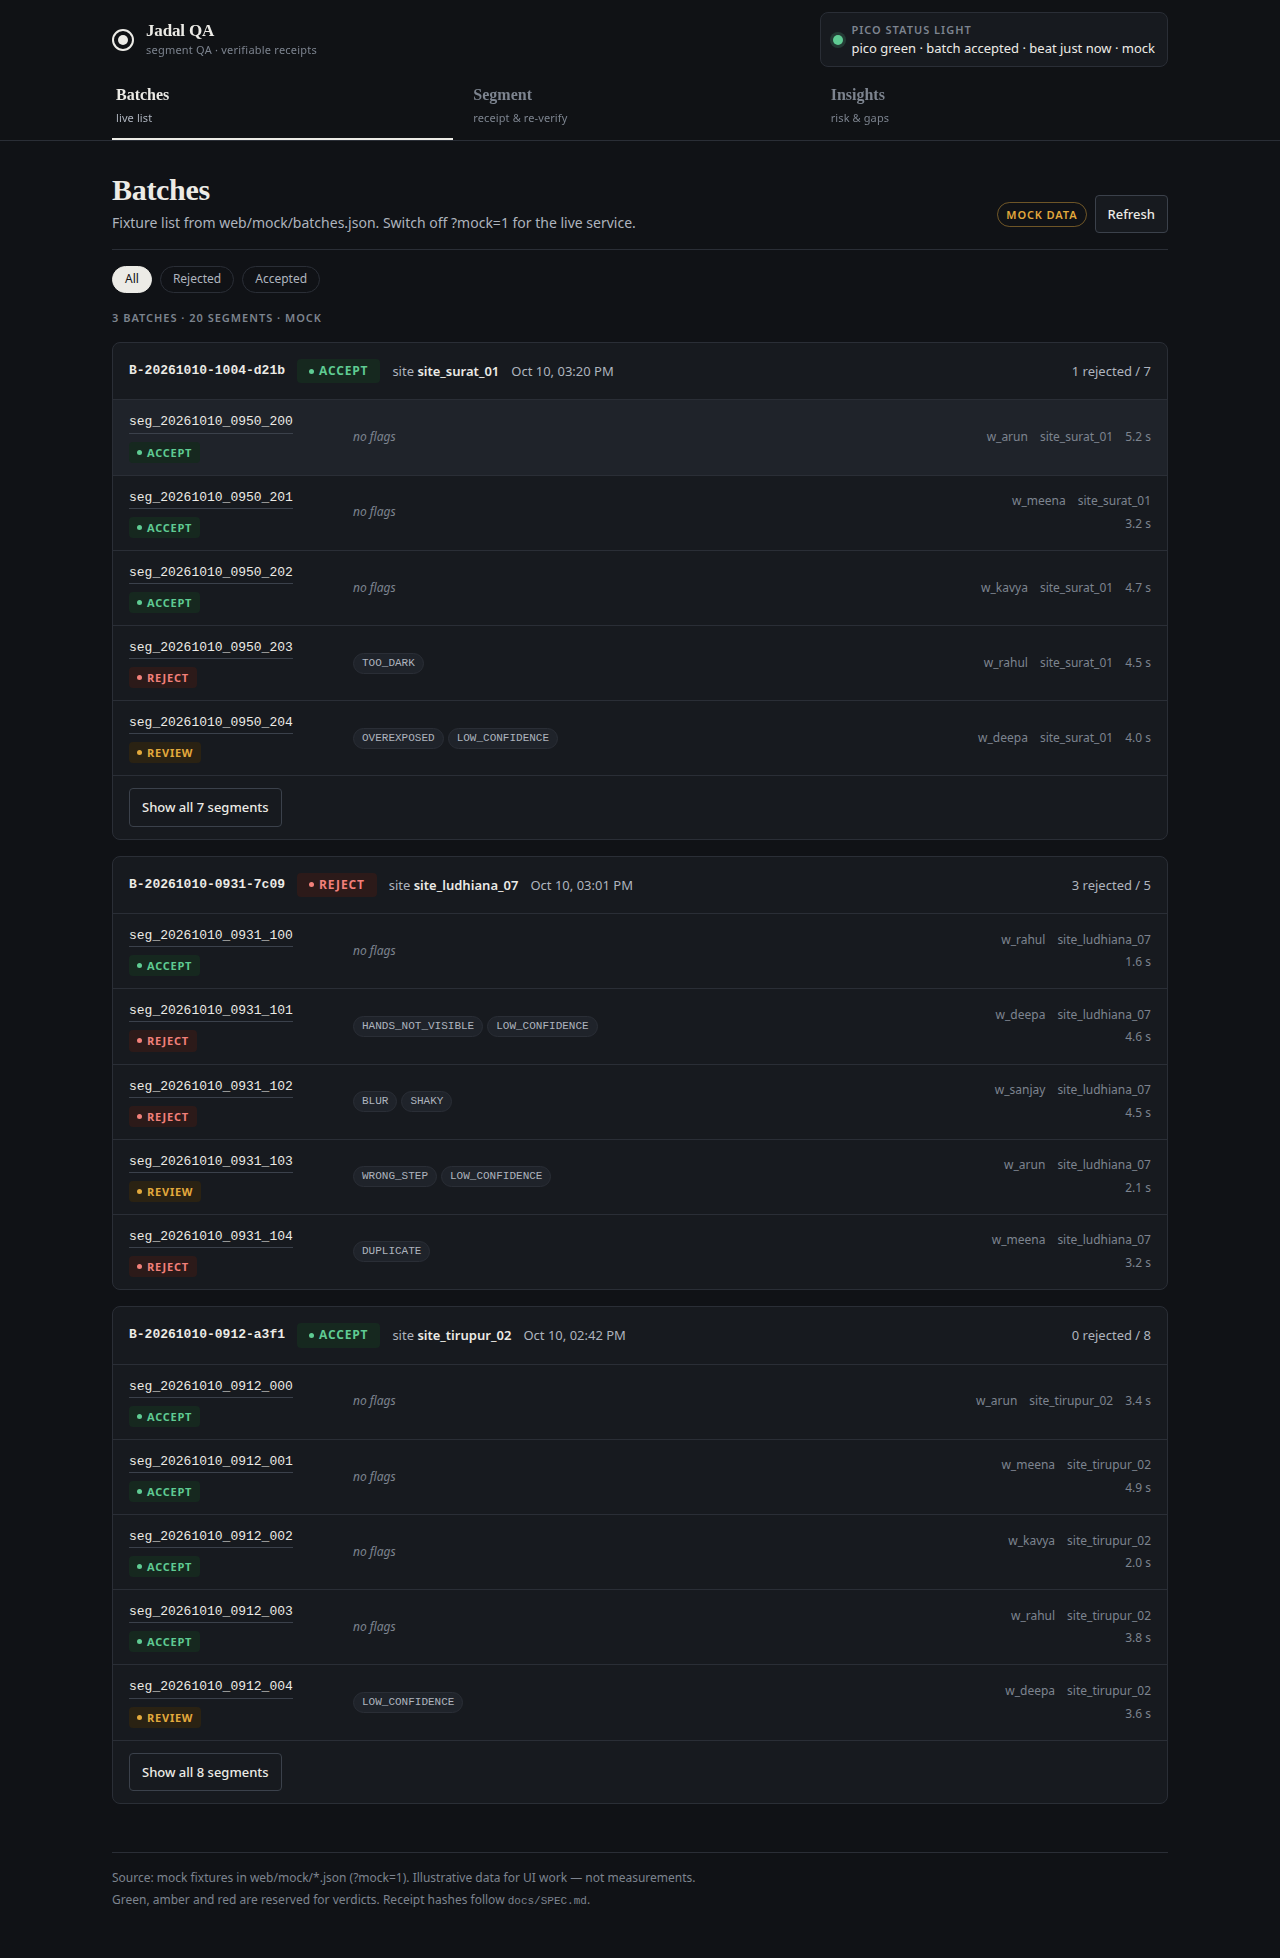
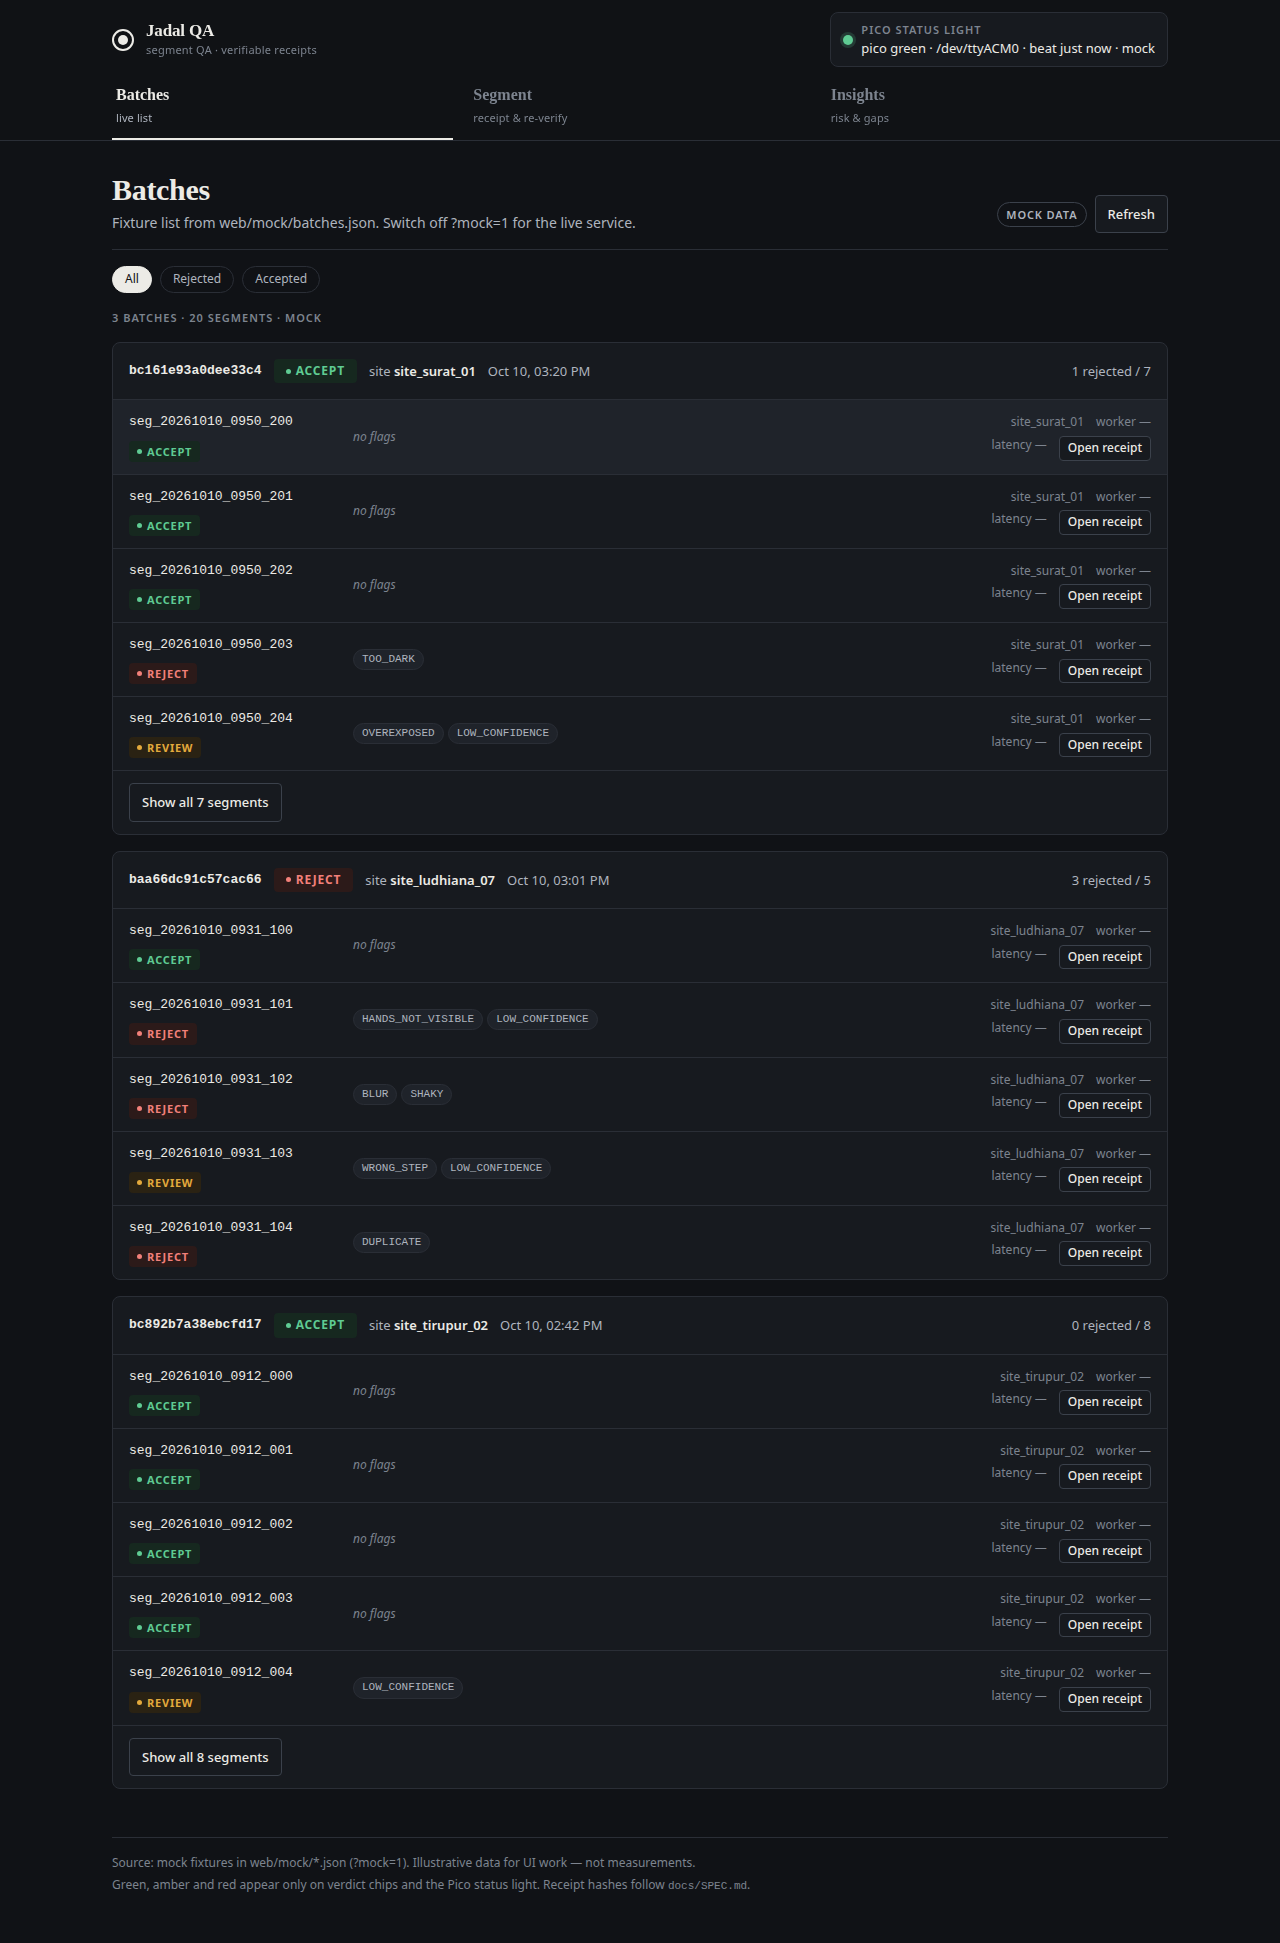
dashboard: fix round 1 — neutral colours, wrap hashes, chart consistency, report
Pills/banners/bound line neutral (verdict colours only on verdicts + Pico
LED); body overflow-x mask removed; coverage title below ticks; single
'not certified' threshold state; filter aria-pressed; dead CSS gone;
docs/reports/dashboard.md gains Fix round 1 + API needs, drops stale
proposals; screenshots refreshed (10 PNGs incl. mismatch state).

diff --git a/web/app.js b/web/app.js
@@ -401,6 +401,8 @@ async function loadBatches(soft) {
       return String(b.created_utc || '').localeCompare(String(a.created_utc || ''));
     });
     state.batchesError = null;
+    // mock LED follows the newest batch; refresh it once the list lands
+    if (MOCK) loadPico();
   } catch (e) {
     if (!soft) { state.batches = null; }
     state.batchesError = e;

diff --git a/docs/reports/dashboard.md b/docs/reports/dashboard.md
@@ -84,31 +84,112 @@ Screenshots are in `docs/screens/` (9 PNGs + the runner script).
 
 ## Known gaps / NOT DONE
 
-- Never exercised against the real service — `jadal/service.py` does not
-  exist yet in this worktree. Live-mode response shapes are guessed from SPEC
-  with tolerant normalizers; see the contract proposals below.
+- Never exercised against a RUNNING service — `jadal/service.py` is not in
+  this worktree. Live shapes were read from `origin/feat/service` and the
+  mocks mirror them exactly (fix round 1), but no live HTTP call has been
+  made yet.
 - No `GET /voice/...` audio heard end-to-end (no voicebank files exist);
   mock mode plays a labelled placeholder tone.
-- WS push payload shape is a guess (full Batch object or anything
-  batch-like); anything else triggers a soft refresh, which is safe.
+- WS push shape read from the service source (`{type: batch, ...batch,
+  receipt_ids}`); `hello`/`pong` ignored, anything else soft-refreshes.
 - `?api=` base override exists for cross-origin demos but is untested.
 
-## Contract proposals for sibling modules (SPEC needs no change)
+## Fix round 1 (review of PR #15)
 
-`docs/SPEC.md` can stay as-is, but the service agent should confirm these
-response envelopes so the dashboard's normalizers can be tightened:
+Read the real service on `origin/feat/service` (`jadal/service.py`,
+`jadal/store.py`, `jadal/pipeline.py`, `docs/reports/service.md`) and the
+pico status shape on `origin/feat/pico`. The service is the source of truth;
+the mocks and the UI now follow it exactly.
 
-1. `GET /batches` → `{"batches": [Batch, …]}` (or a bare array — both work).
-2. **Batch needs a `segments` enrichment**: SPEC's Batch has `segment_ids` +
-   `verdicts` only, but the issue asks for worker/site/latency per row.
-   Proposal: `segments: [{segment_id, receipt_id, worker_id, site_id,
-   source_clip, start_s, end_s, latency_ms}]` alongside them (this is exactly
-   what the mock fixtures carry; `latency_ms` = per-segment pipeline time).
-3. `GET /stats/risk_coverage` → `{"points": [{threshold, coverage, error}],
-   "error_bound", "n", "errors", "target_error", "delta", "min_accepted",
-   "chosen_threshold"?}`.
-4. `GET /stats/sop_gaps` → `{"gaps": [{reason_code, count, sop_section,
-   "share"?}], "total_segments"?, "window_utc"?}`.
-5. `GET /pico/status` → `{"connected", "led": "G|A|R|OFF",
-   "last_heartbeat_utc", "led_meaning"?}` — the dashboard derives the age
-   display from `last_heartbeat_utc`.
+Changed:
+
+- **Mocks mirror live.** `batches.json` is now exactly `GET /batches`
+  (`{"batches": [...]}` with the nine store keys only, `b`+16hex ids,
+  isoformat `created_utc`; the invented `segments`/`rejected_count`
+  enrichment is gone). `risk_coverage.json` is the bare certify list
+  `[{threshold, coverage, error}]`, strictest first — no bound metadata, the
+  service returns none. `sop_gaps.json` is a bare list
+  (`reason_code`+`count` required; `sop_section`/`share` are illustrative
+  extras the UI reads opportunistically). `pico_status.json` is the
+  `PicoLink.status()` shape (`connected, port, last_hb_age_s,
+  last_hb_ticks_ms, last_hb_led`).
+- **Segment links use receipt ids only.** Rows show an “Open receipt” button
+  that resolves segment → receipt through `GET /batches/{id}.receipt_ids` +
+  each receipt's `verdict.segment_id` (cached), exactly as live requires.
+  No `receipt_id = segment_id` fallback anywhere.
+- **Missing fields render “—”.** Worker, clip path and per-segment latency
+  are not exposed by the API; site comes from the batch. See “API needs”.
+- **Field names:** `upper_bound` (certify's name) wins, `error_bound` kept as
+  legacy fallback; `blurred_sha256` read from the receipt top level;
+  no `source_clip` read from signals.
+- **Re-verify race:** each request carries `state.rvSeq` + receipt id; stale
+  responses are ignored. The button is disabled while busy and when the
+  receipt has no `receipt_sha256`.
+- **Colour:** green/amber/red now only on verdict chips, batch-decision
+  badges and the Pico LED. Live/mock pills, the error-state border, the
+  bound line (now accent) and both re-verify banners (✓/✕ + words, ink) are
+  neutral. Footer text corrected.
+- **390 px:** `overflow-x: hidden` removed from `body`; hashes wrap via
+  `overflow-wrap: anywhere`. The 0 px overflow figures below are measured
+  with no mask in place.
+- **Insights:** “coverage” axis title sits below the tick row; one
+  consistent threshold state — “not certified / no certified threshold
+  yet”, no bound/target lines, no operating dot — until the payload carries
+  `upper_bound`/`chosen_threshold`.
+- **Cheap minors:** `aria-pressed` on filter chips; dead CSS removed
+  (`select` rule, `.visually-hidden`); tie-safe `localeCompare` sorts;
+  voice note says the first reason code; route refetch keyed on
+  `requestedId`; WS `hello`/`pong` ignored.
+
+Commands and REAL output tails:
+
+```sh
+cd /home/parshu/projects/jadal-qa-wt/dashboard
+PYTHONNOUSERSITE=1 /home/parshu/envs/jadal/bin/python -m unittest discover -s web
+# .............
+# ----------------------------------------------------------------------
+# Ran 13 tests in 0.022s
+# OK
+node --check web/app.js   # no output = pass
+node docs/screens/take_shots.cjs
+# batches-1280.png:   1280x900  overflow=0px consoleErrors=0 failedReqs=0
+# segment-1280.png:   1280x900  overflow=0px consoleErrors=0 failedReqs=0
+# reverify-1280.png:  ✓ MATCH — receipt reproduces (expected == actual)
+# reverify-mismatch-1280.png: ✕ MISMATCH — receipt does not reproduce + diff paths
+# insights-1280.png:  1280x900  overflow=0px consoleErrors=0 failedReqs=0
+# batches-390.png:    390x844   overflow=0px consoleErrors=0 failedReqs=0
+# segment-390.png:    390x844   overflow=0px consoleErrors=0 failedReqs=0
+# insights-390.png:   390x844   overflow=0px consoleErrors=0 failedReqs=0
+# batches-dark-1280.png, segment-dark-1280.png: dark, 0 errors
+# ALL SHOTS OK
+```
+
+## API needs (for the orchestrator → service worker)
+
+Fields the UI wants that no endpoint provides today. In each case the UI
+renders “—” and works without it; nothing is invented client-side.
+
+1. **Per-segment worker, clip path, latency.** Wanted at JSON path
+   `GET /batches/{id}.segments[]` with
+   `{segment_id, receipt_id, worker_id, source_clip, latency_ms}` —
+   or equivalently a `GET /segments/{id}` endpoint returning the stored
+   Segment row (`segment_id, source_clip, worker_id, site_id, start_s,
+   end_s, path, sha256`). Used by: batch rows (worker/latency) and the
+   segment screen (worker/source clip/latency).
+2. **Risk bound + threshold metadata.** Wanted alongside the points on
+   `GET /stats/risk_coverage`: `upper_bound` (exact-binomial, certify's
+   name), `chosen_threshold`, `n`, `errors`, `target_error`, `delta`
+   (either top-level keys next to `points`, or a companion object). Used
+   by: the error-bound line, the stats row, the operating-point dot.
+   Until then the Insights screen shows “no certified threshold yet”.
+3. **SOP gap field shapes.** Wanted: a documented row shape for
+   `GET /stats/sop_gaps`, at minimum `{reason_code, count}`; `sop_section`
+   (SOP reference for the code) would let the bars say where to look.
+4. **Cheaper segment→receipt mapping.** Today opening one segment costs
+   `GET /batches/{id}` + up to N `GET /receipts/{id}` (cached, fine for
+   N=5–10). If the service ever includes `receipt_ids` aligned with
+   `segment_ids` order in the batch detail, the UI can drop the N+1 walk.
+   Not urgent; the current path is correct either way.
+5. **`blurred_sha256` on receipts.** SPEC stores it on the receipt, but
+   `receipts.make_receipt` does not emit it yet, so the Hashes card hides
+   that row. Wanted: include it (or `null`) when faces were blurred.
